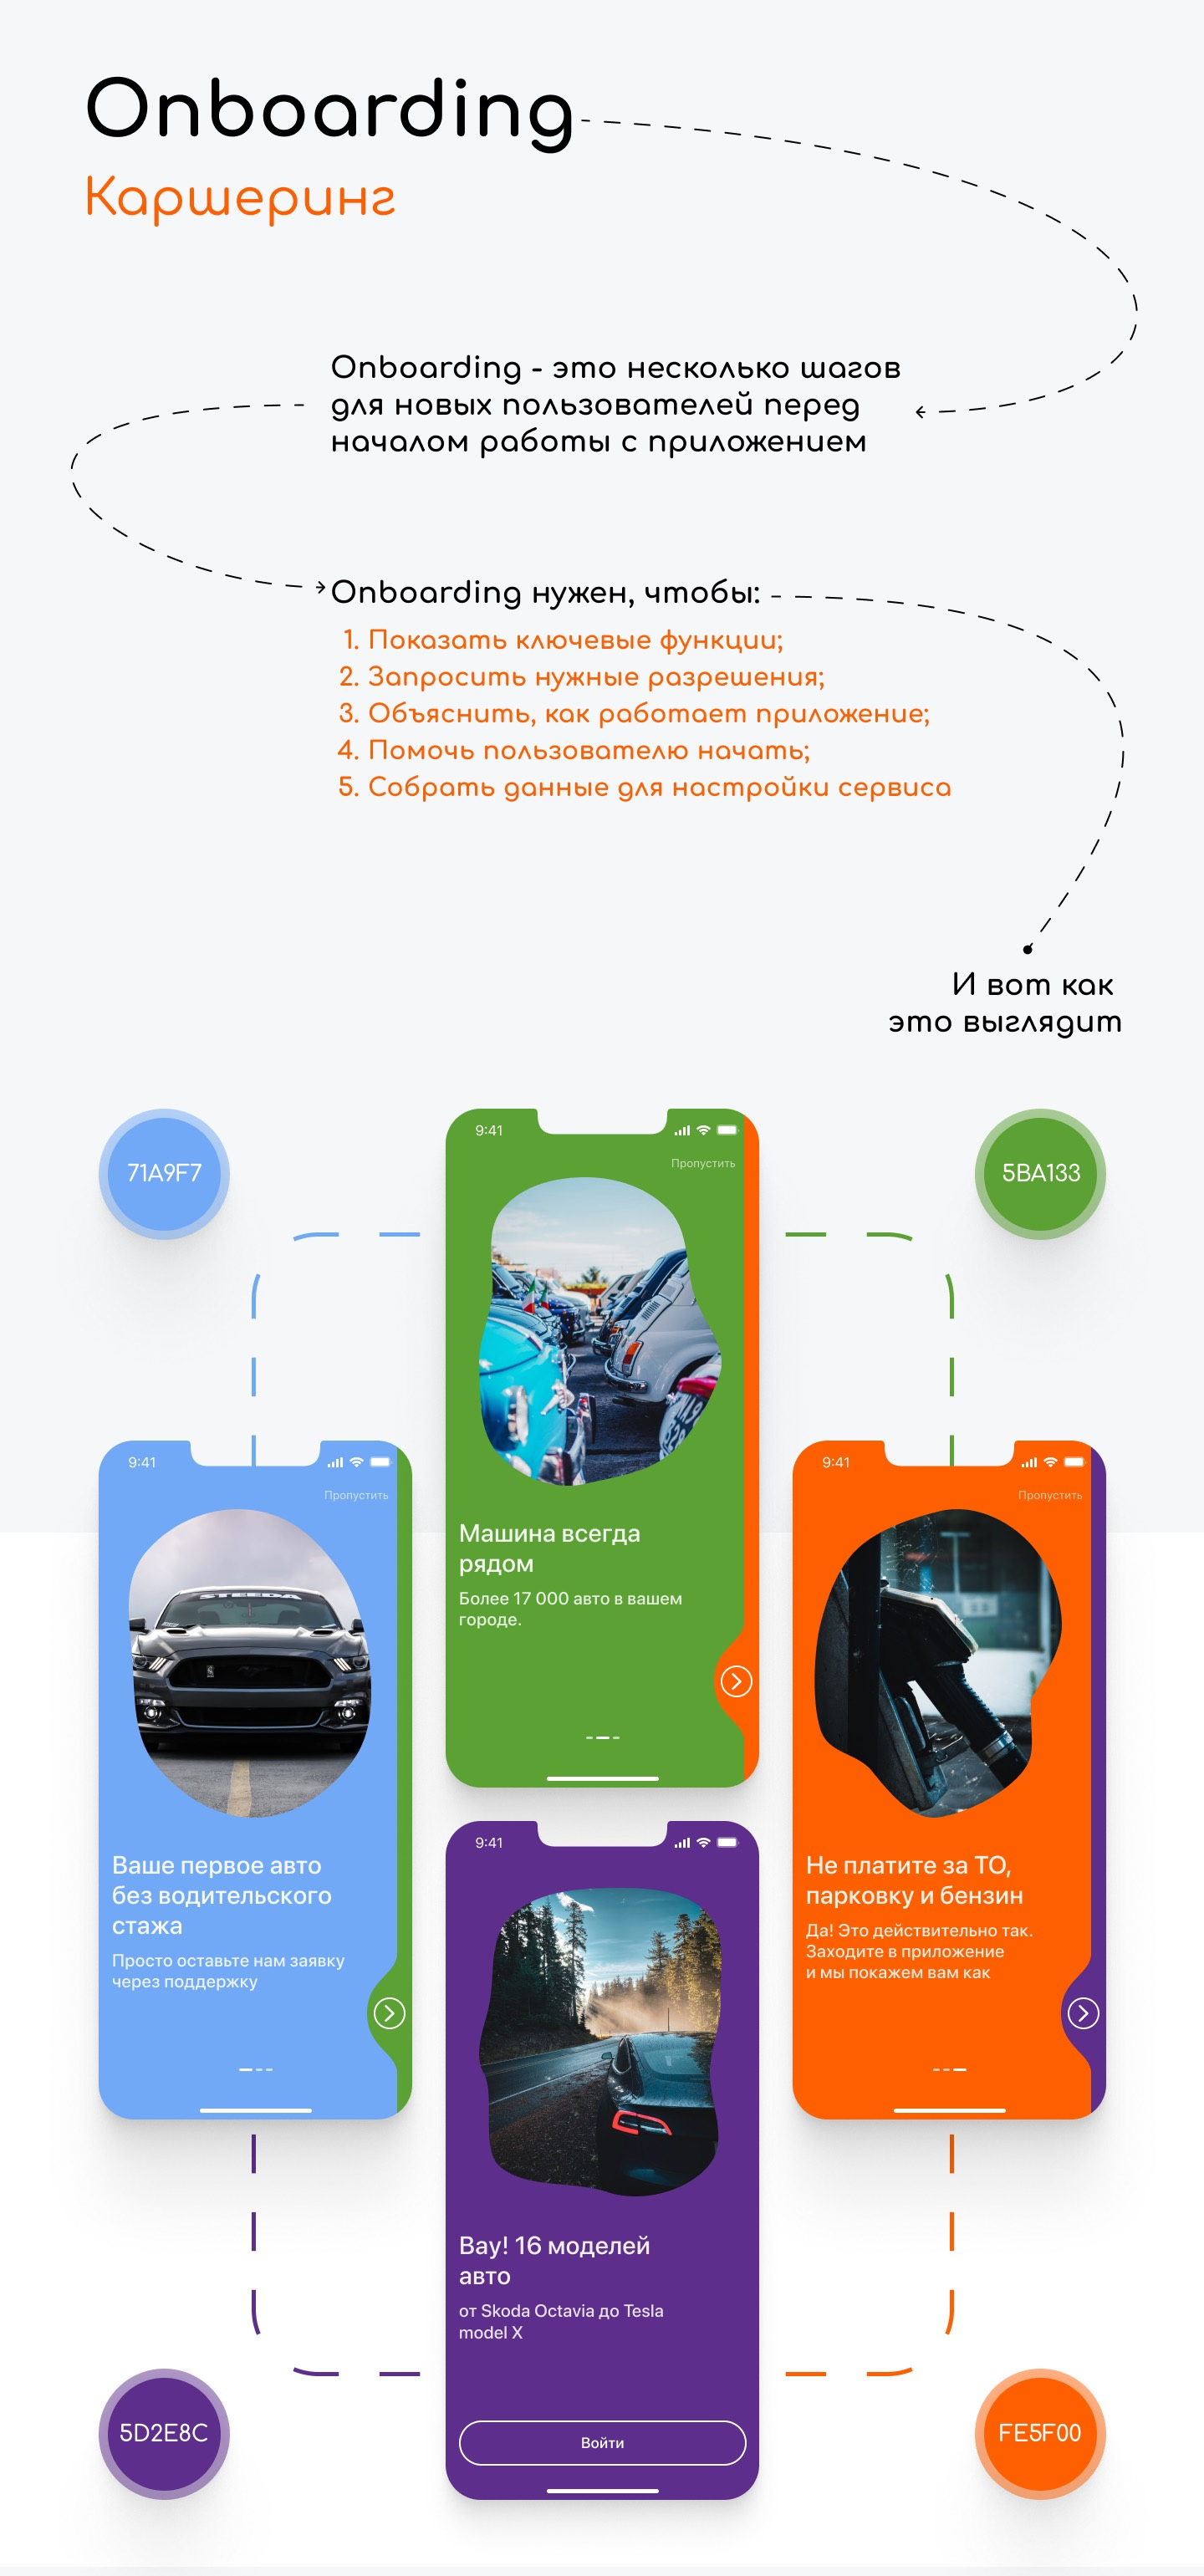
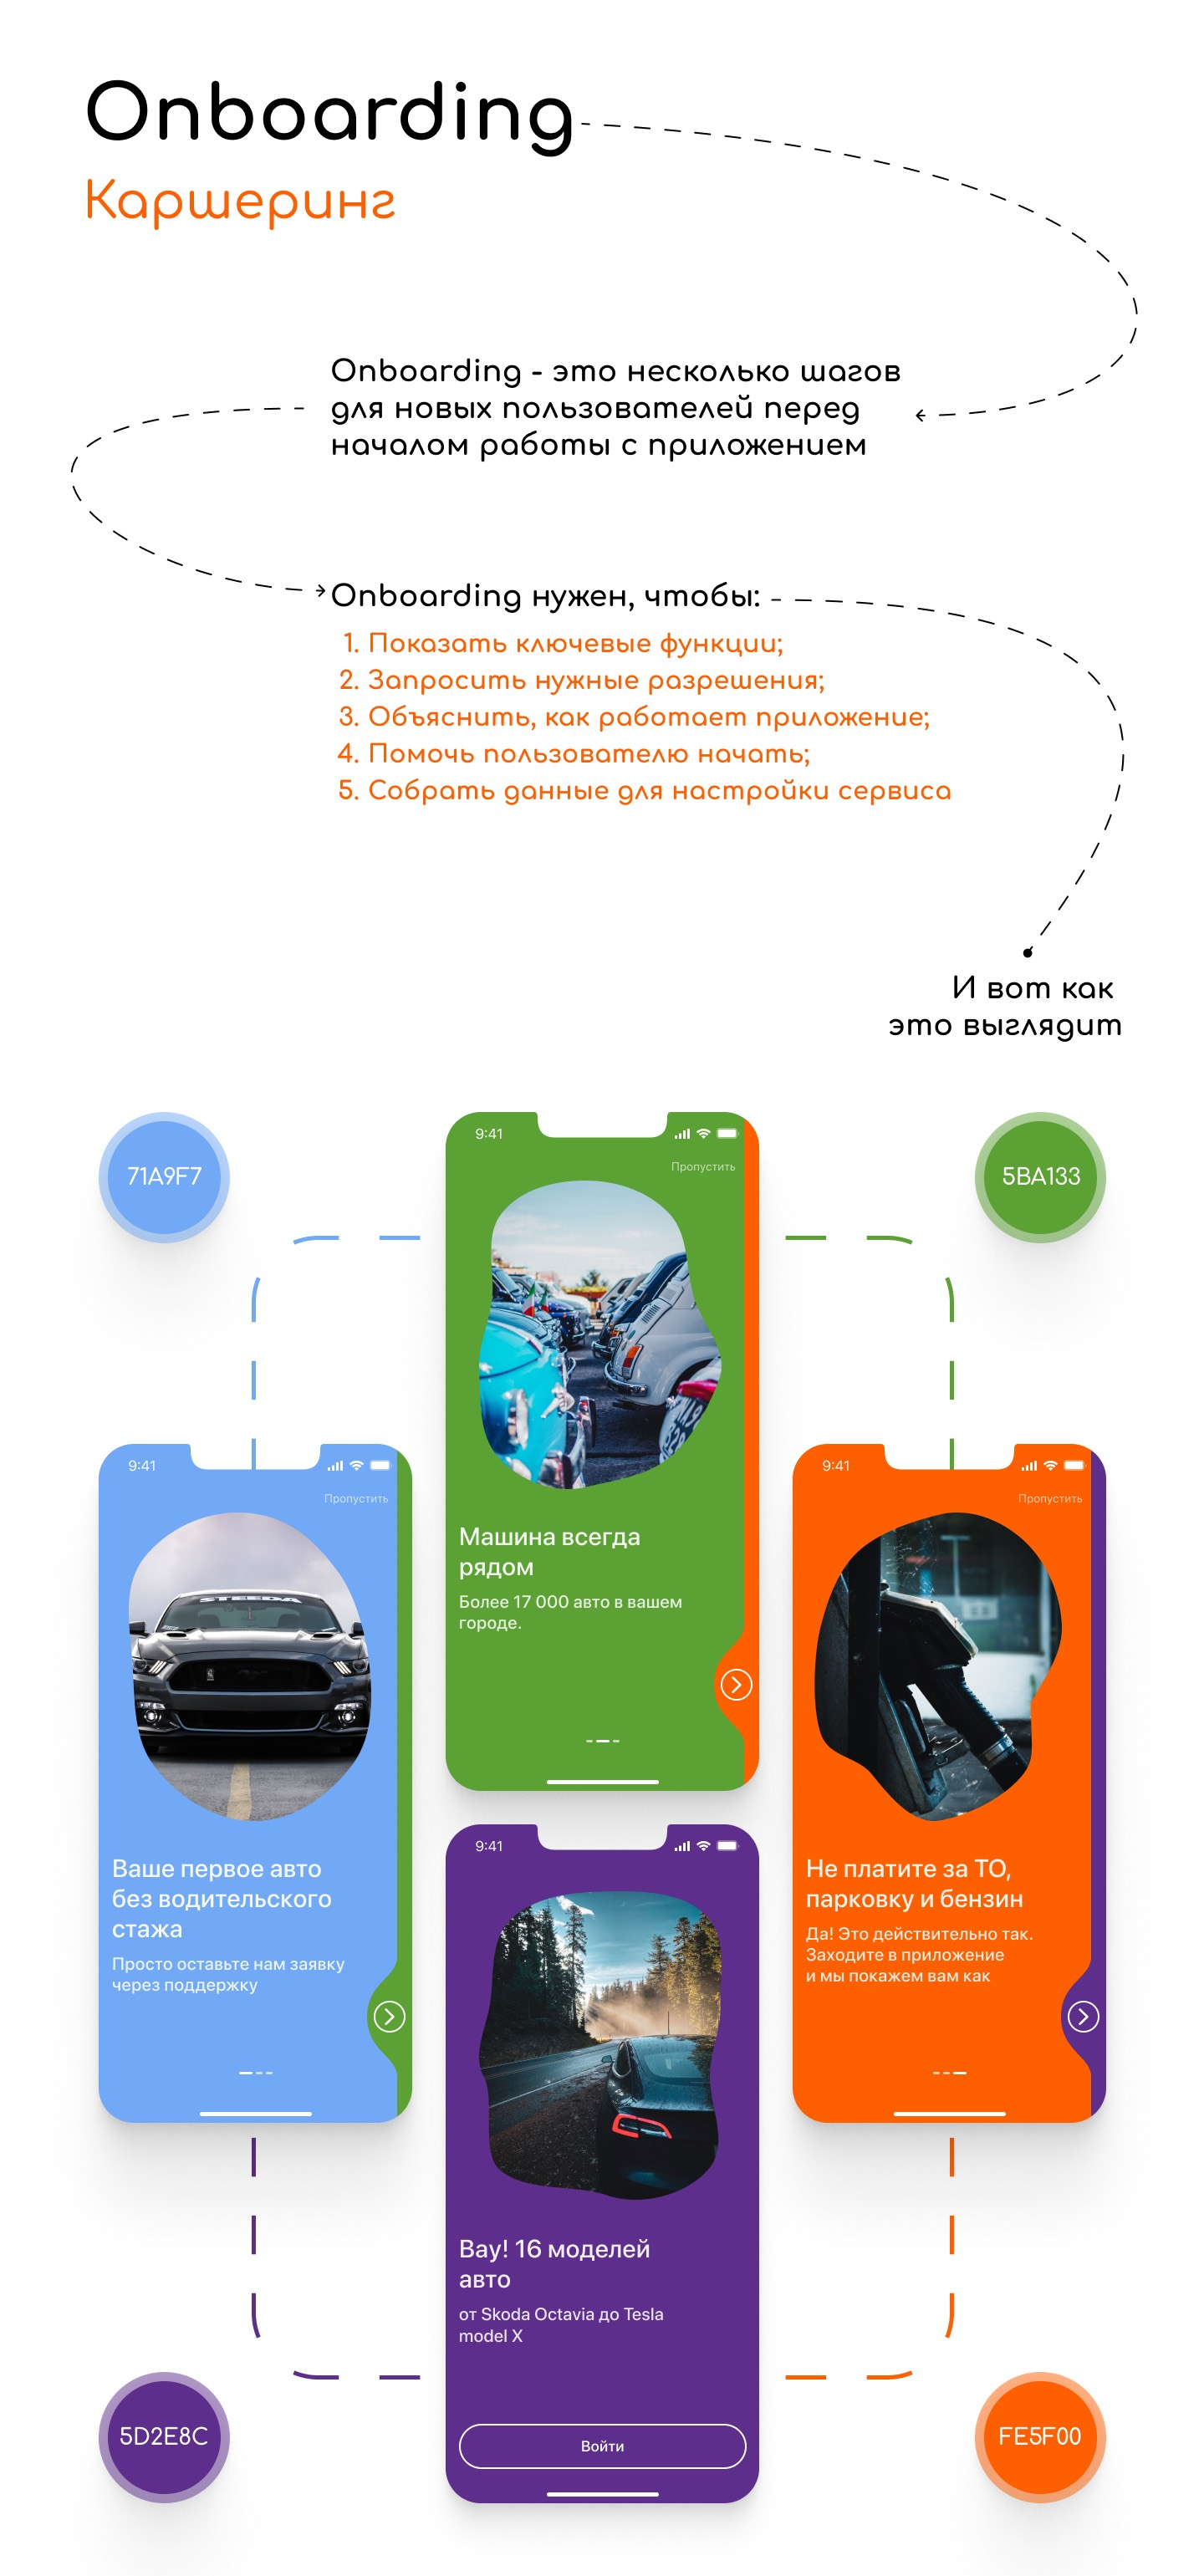
Onboarding case: updated screens, slower chapters 2 & 3
User re-exported the onboarding screens (trailing whitespace trimmed) and
asked for slower playback on Onboarding / What's new (w 1.3/1.4 → 2.2,
~6.5s → 13.2s).

diff --git a/case.html b/case.html
@@ -383,8 +383,8 @@
     ]},
     'onboarding-whatsnew':{type:'scrubber',groups:[
       {label:'Обзор',      w:1,   slides:[{img:'cases/onboarding-whatsnew/1.jpg'}]},
-      {label:'Onboarding', w:1.3, slides:[{img:'cases/onboarding-whatsnew/2.jpg'}]},
-      {label:"What's new", w:1.4, slides:[{img:'cases/onboarding-whatsnew/3.jpg'}]},
+      {label:'Onboarding', w:2.2, slides:[{img:'cases/onboarding-whatsnew/2.jpg'}]},
+      {label:"What's new", w:2.2, slides:[{img:'cases/onboarding-whatsnew/3.jpg'}]},
     ]},
   };
 